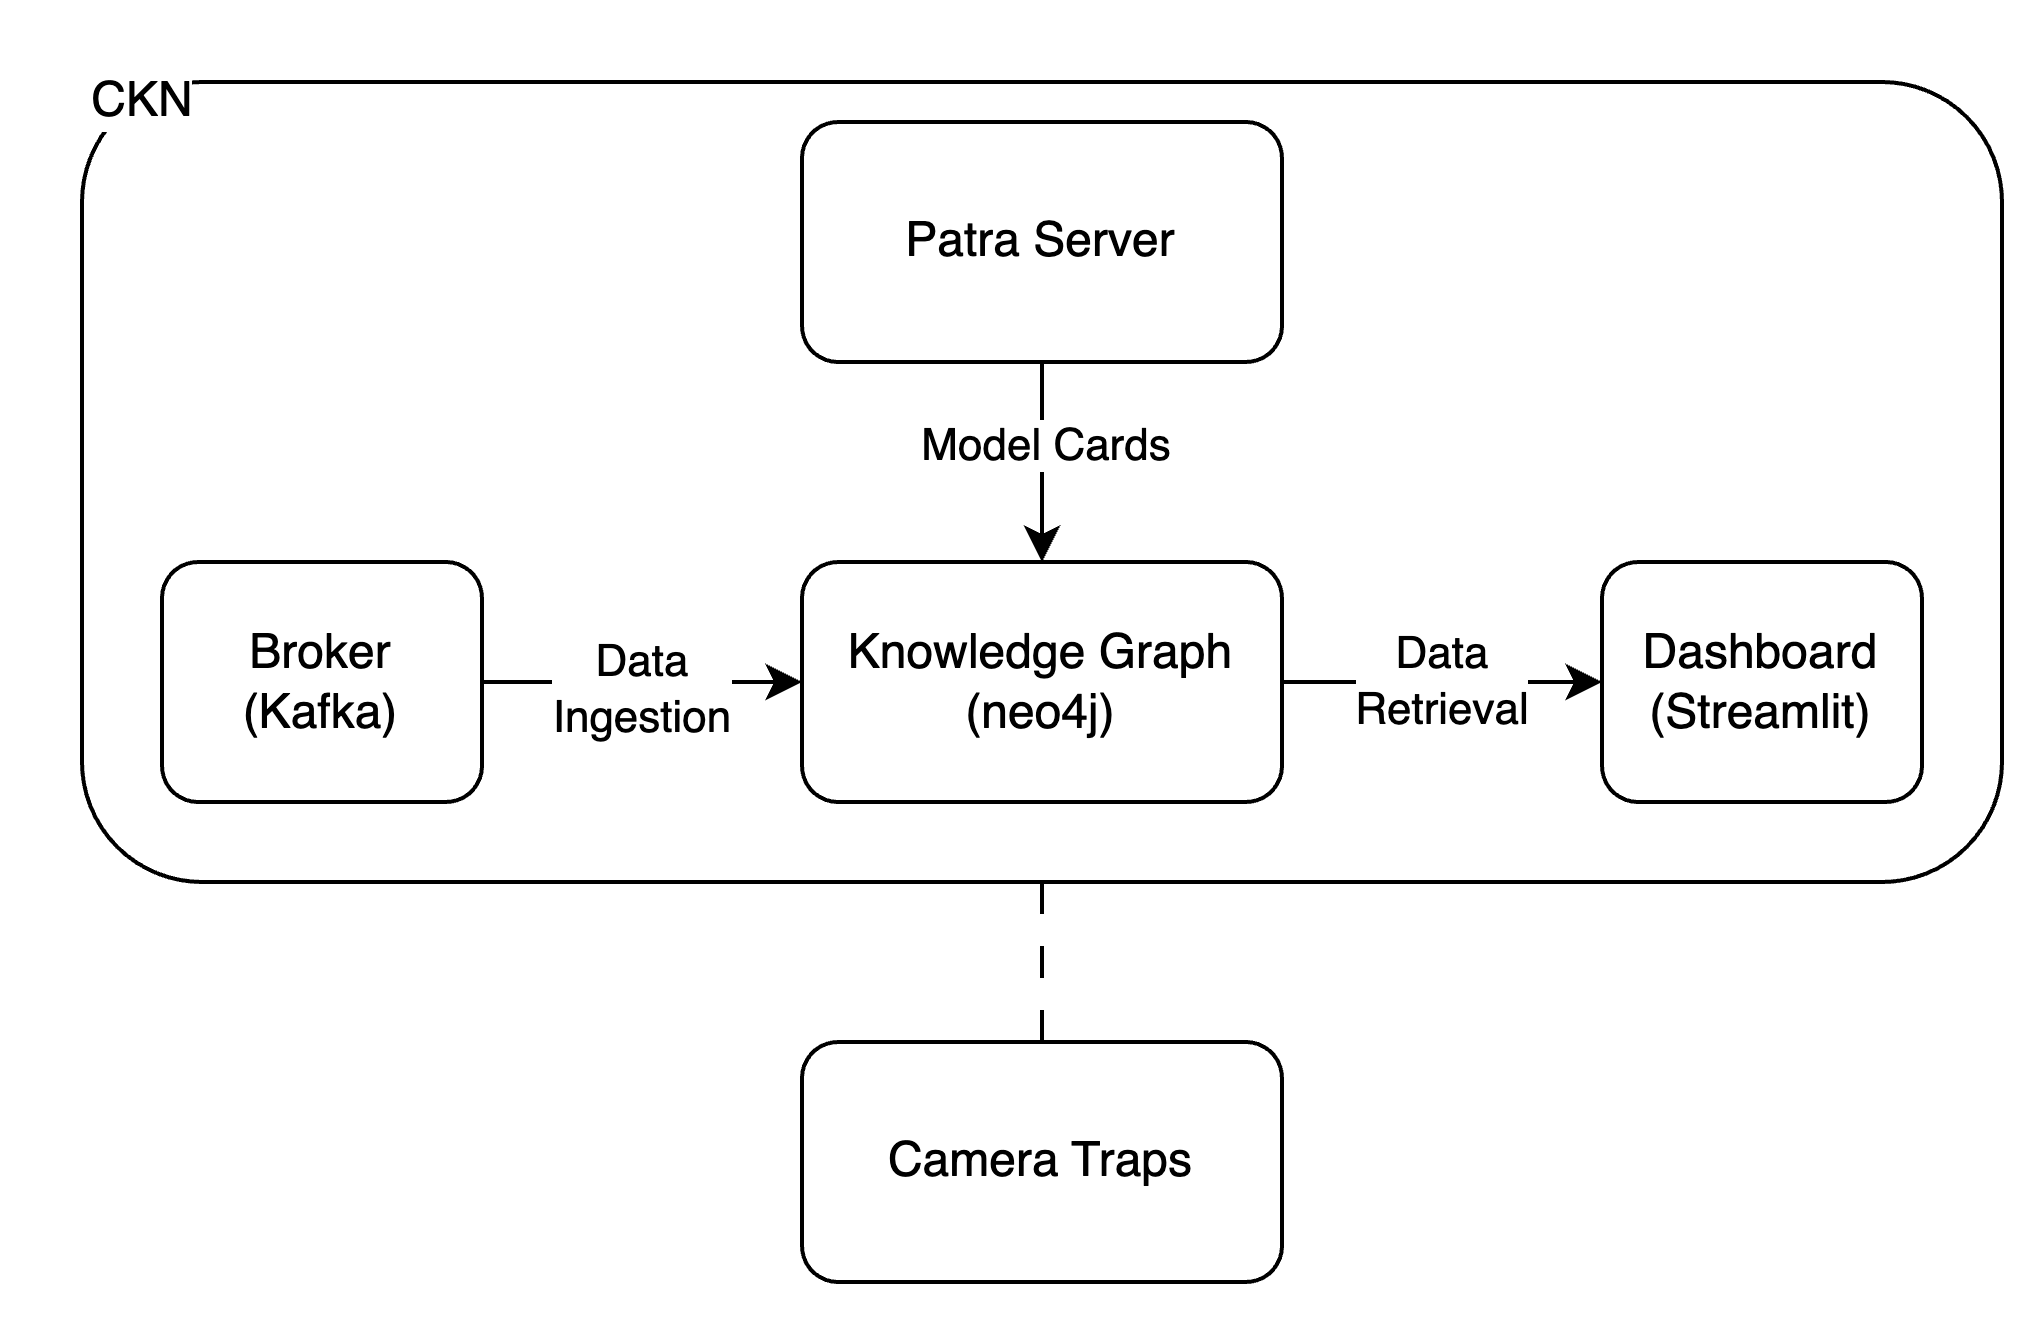
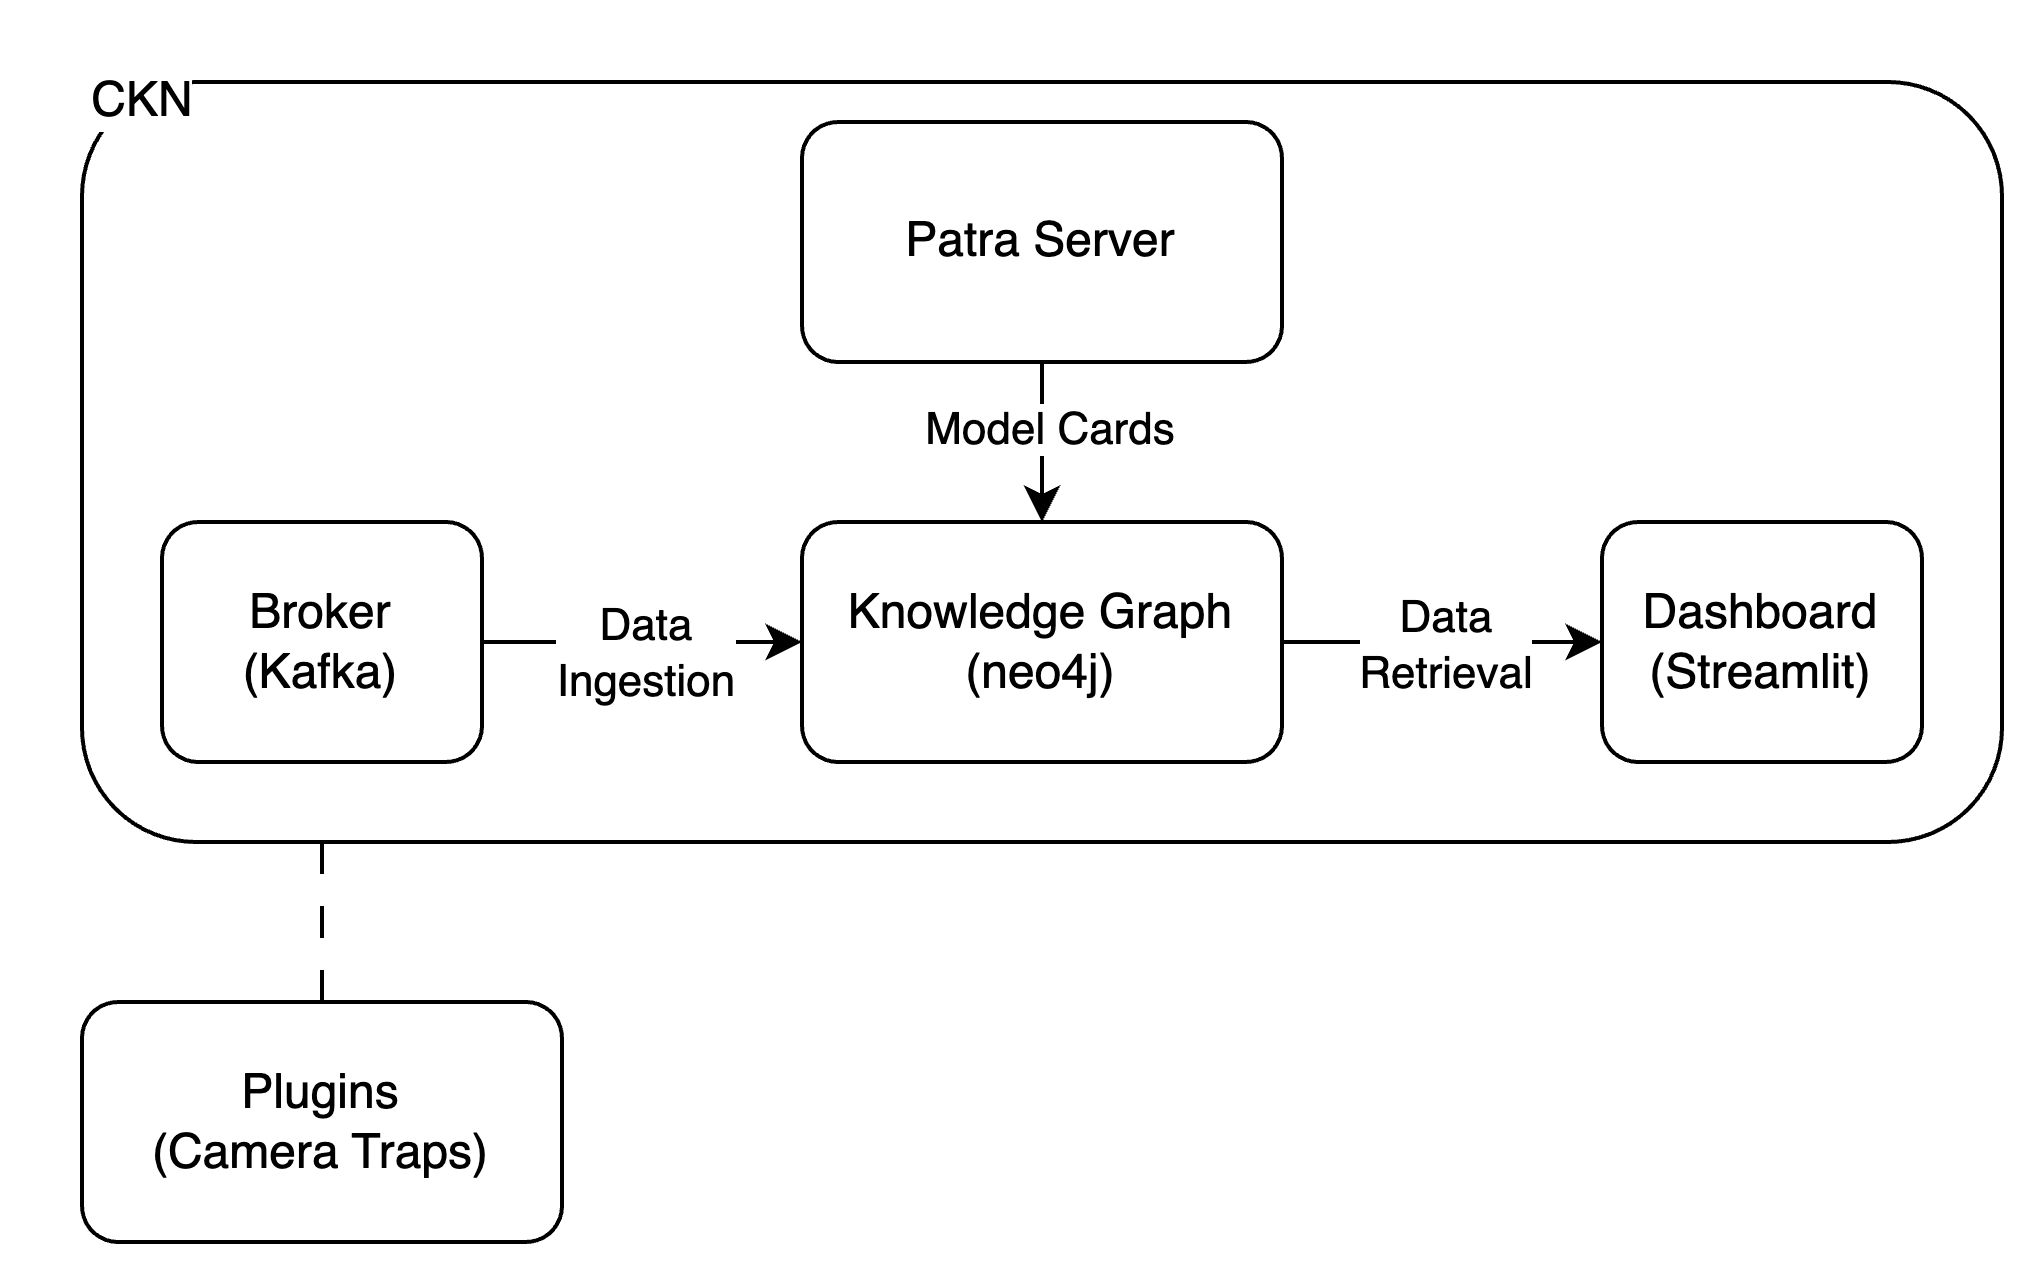
update README

diff --git a/README.md b/README.md
@@ -1,35 +1,21 @@
-# Cyberinfrastructure Knowledge Network (CKN)
+## Cyberinfrastructure Knowledge Network (CKN)
 
-## Overview
+### Overview
 
 The Cyberinfrastructure Knowledge Network (CKN) repository provides the setup and components required to run CKN. This system integrates various services to manage and analyze data using a sophisticated pipeline involving data ingestion, processing, and visualization.
 
 ![CKN Design](ckn-design.png)
 
-## Components
+### Components
+- **Broker**: Sets up Kafka broker, topics, and connectors for streaming data.
+- **Knowledge Graph**: Manages neo4j db's infrastructure and connections.
+- **Stream Processors**: Integrates with CKN to enhance data processing workflows. More details at [CKN Stream Processors repository](https://github.com/Data-to-Insight-Center/ckn-stream-processors). 
+- **Dashboard**: Provides a Streamlit dashboard for visualizing data from knowledge graph and a LLM-based chatbot.
 
-### CKN Broker
-- **Purpose**: Sets up Kafka broker and connectors for streaming data.
-- **Components**: Configures Kafka brokers, topics, and connectors. Includes knowledge graph sinks for handling streamed events.
-
-### CKN KG (Knowledge Graph)
-- **Purpose**: Defines the Docker Compose setup for the knowledge graph.
-- **Components**: Manages the knowledge graph's infrastructure and connections.
-
-### Stream Processors
-For additional stream processing capabilities, visit the [CKN Stream Processors repository](https://github.com/Data-to-Insight-Center/ckn-stream-processors). This repository contains stream processors that integrate with CKN to enhance data processing workflows.
-
-### Dashboard
-- **Purpose**: Provides a CKN Analytics dashboard for visualizing data from knowledge graph.
-- **Features**: Offers a Chatbot and interactive insights into the data.
-
-## Quickstart
+### Getting Started
 ```bash
 make up
 ```
 
-## Plugins
-### Oracle CKN Daemon
-- **Purpose**: Reads, processes, and sends camera trap events from Oracle Daemon and Power Measuring plugin.
-- **Functionality**: Extracts only those events that have been fully processed by the image scoring plugin.
-- **Deployment**: Includes Dockerfile and Docker Compose files for straightforward deployment of the daemon.
+### Plugins
+- **Oracle CKN Daemon**: Reads, processes, and sends camera trap events from Oracle Daemon and Power Measuring plugin.
